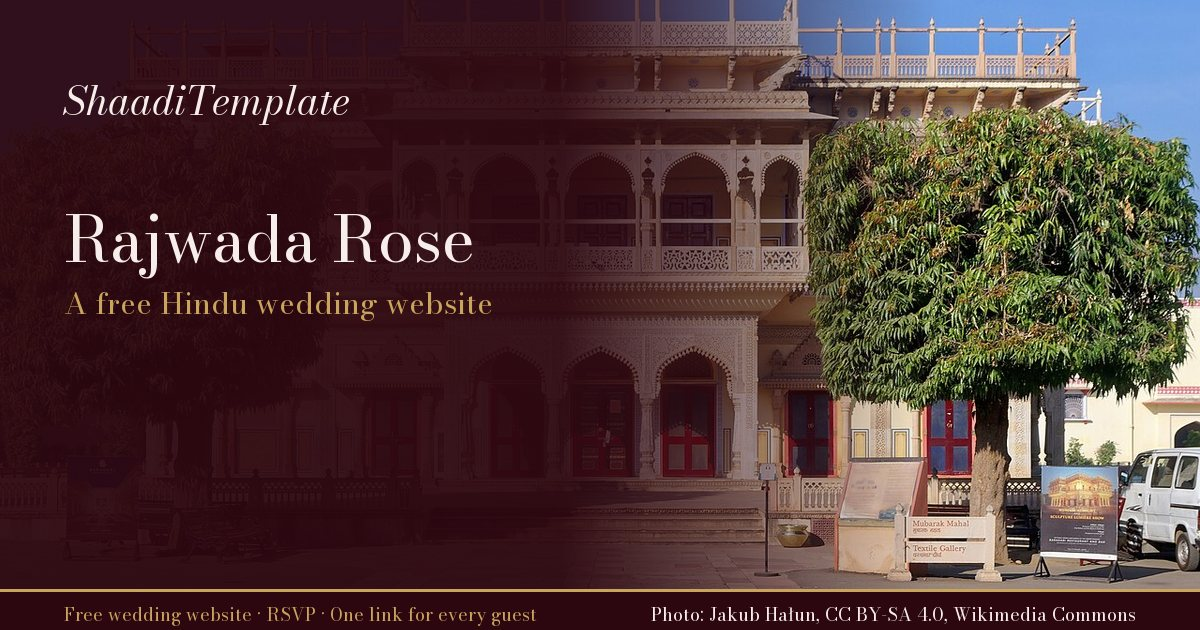
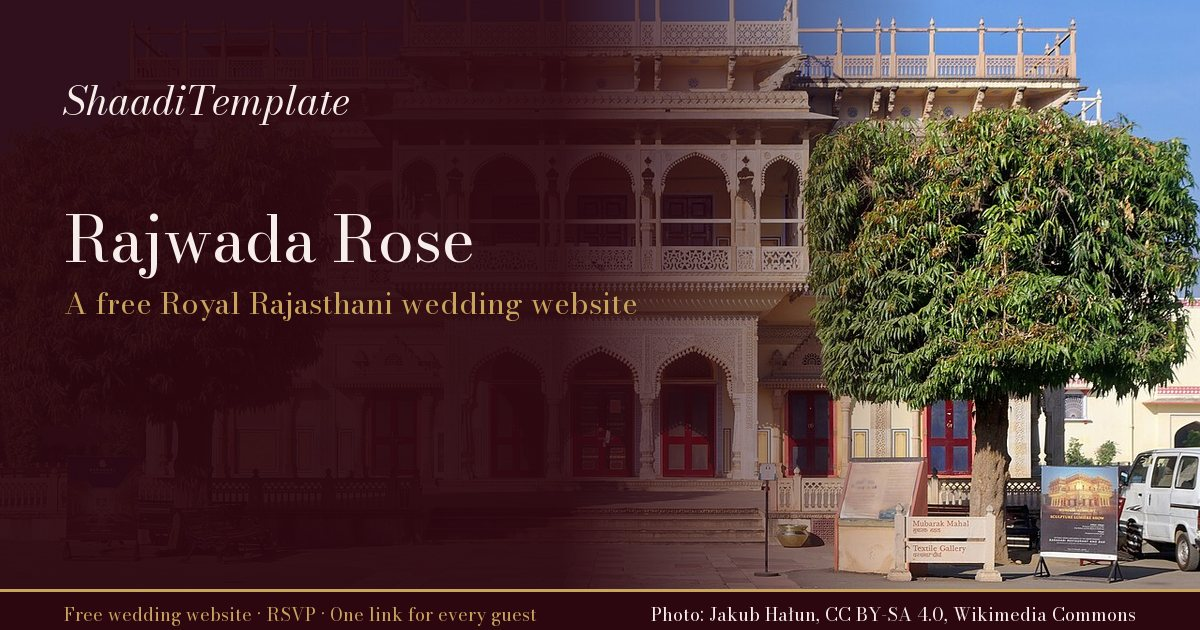
SEO: link each wedding website design, distinct website titles, sample date fixes and website analytics events
Follow-up to the Search Console check after #55.

- Home page and designs index list all 10 website designs in plain HTML, written by scripts/seo.py between the <!-- websites --> marks. The website pages have no links in their HTML until the app runs.
- Sitemap carries each website page's share image.
- Website titles no longer repeat: Royal Rajasthani, Banarasi, Palace, and Modern Minimal in place of four Hindu and one Garden.
- Hindi and Marathi guides and the reception hub carry their English-letter search phrases in the text.
- Gulabi Mamta simant sample date is 19-02-2026 (Phagun Sud 2, a Thursday) and Teddy Balloon is 03-03-2025 (Phagun Sud 4, a Monday), in all six languages. Previews re-rendered.
- Website pages send site_design_open, site_edit_start and site_publish with a design parameter. Links followed inside the app now count as page views.

Changed region(s): [[0.1233, 0.4524, 0.5242, 0.5127]]

diff --git a/src/card/tr/gulabi-mamta-simant.ts b/src/card/tr/gulabi-mamta-simant.ts
@@ -20,8 +20,8 @@ const tr: NonNullable<Template['tr']> = {
         { heading: '', body: 'With great joy we share that\nby the boundless grace and blessings of our Kuldevi Mahalakshmi Mataji,\nson of Smt. Ranjanben and Shri Madhavlal Manilal Patel' },
         { heading: '', body: '*wife of Chi. Shubham*' },
         { heading: '', body: '*Smt. Hiral*' },
-        { heading: '', body: 'will have her Simant ceremony on Vikram Samvat 2082,\nPhagun Sud 2, Thursday, 10-05-2026,\nfrom 10:00 AM, in the Vedic tradition\nas the scriptures prescribe. Please come to bless\nour daughter-in-law and grace the occasion.' },
-        { heading: '', body: '*:: Lunch ::*\nThursday, 10-05-2026,\nfrom 10:45 AM until your arrival' },
+        { heading: '', body: 'will have her Simant ceremony on Vikram Samvat 2082,\nPhagun Sud 2, Thursday, 19-02-2026,\nfrom 10:00 AM, in the Vedic tradition\nas the scriptures prescribe. Please come to bless\nour daughter-in-law and grace the occasion.' },
+        { heading: '', body: '*:: Lunch ::*\nThursday, 19-02-2026,\nfrom 10:45 AM until your arrival' },
         { heading: '', body: '*:: Venue ::*\nVangi Restaurant, Shop No. 6, 7,\nCelister Building, Rajpath Rangoli Road,\nBodakdev, Ahmedabad, Gujarat' },
       ],
     },
@@ -53,8 +53,8 @@ const tr: NonNullable<Template['tr']> = {
         { heading: '', body: 'सहर्ष सूचित करते हैं कि\nहमारी कुलदेवी महालक्ष्मी माताजी की असीम कृपा और आशीर्वाद से\nश्रीमती रंजनबेन एवं श्री माधवलाल मणिलाल पटेल के सुपुत्र' },
         { heading: '', body: '*चि. शुभम की धर्मपत्नी*' },
         { heading: '', body: '*श्रीमती हीरल*' },
-        { heading: '', body: 'की सीमंत विधि का शुभ मुहूर्त विक्रम संवत 2082\nफाल्गुन सुदी द्वितीया, गुरुवार, दि. 10-05-2026 को\nप्रातः 10:00 बजे से वैदिक परंपरा एवं शास्त्रोक्त\nरीति से निश्चित है, अतः इस शुभ अवसर पर पुत्रवधू को\nआशीर्वाद देने पधारकर शोभा बढ़ाएँ।' },
-        { heading: '', body: '*:: भोजन समारोह ::*\nगुरुवार, दि. 10-05-2026 को\nप्रातः 10:45 बजे से आपके आगमन तक' },
+        { heading: '', body: 'की सीमंत विधि का शुभ मुहूर्त विक्रम संवत 2082\nफाल्गुन सुदी द्वितीया, गुरुवार, दि. 19-02-2026 को\nप्रातः 10:00 बजे से वैदिक परंपरा एवं शास्त्रोक्त\nरीति से निश्चित है, अतः इस शुभ अवसर पर पुत्रवधू को\nआशीर्वाद देने पधारकर शोभा बढ़ाएँ।' },
+        { heading: '', body: '*:: भोजन समारोह ::*\nगुरुवार, दि. 19-02-2026 को\nप्रातः 10:45 बजे से आपके आगमन तक' },
         { heading: '', body: '*:: शुभ स्थल ::*\nवांगी रेस्टोरेंट, शॉप नं. 6, 7,\nसेलिस्टर बिल्डिंग, राजपथ रंगोली रोड,\nबोडकदेव, अहमदाबाद, गुजरात' },
       ],
     },
@@ -86,8 +86,8 @@ const tr: NonNullable<Template['tr']> = {
         { heading: '', body: 'कळविण्यास अत्यंत आनंद होतो की\nआमची कुलदेवी महालक्ष्मी मातेच्या असीम कृपेने व आशीर्वादाने\nअ.सौ. रंजनबेन व श्री. माधवलाल मणिलाल पटेल यांचे सुपुत्र' },
         { heading: '', body: '*चि. शुभम यांच्या धर्मपत्नी*' },
         { heading: '', body: '*अ.सौ. हीरल*' },
-        { heading: '', body: 'यांच्या सीमंत विधीचा शुभ मुहूर्त विक्रम संवत 2082\nफाल्गुन शुद्ध द्वितीया, गुरुवार, दि. 10-05-2026 रोजी\nसकाळी 10:00 वाजल्यापासून वैदिक परंपरा व शास्त्रोक्त\nपद्धतीने ठरला आहे, तरी या शुभ प्रसंगी आमच्या सुनेला\nआशीर्वाद देण्यास उपस्थित राहून शोभा वाढवावी.' },
-        { heading: '', body: '*:: भोजन समारंभ ::*\nगुरुवार, दि. 10-05-2026 रोजी\nसकाळी 10:45 वाजल्यापासून आपल्या आगमनापर्यंत' },
+        { heading: '', body: 'यांच्या सीमंत विधीचा शुभ मुहूर्त विक्रम संवत 2082\nफाल्गुन शुद्ध द्वितीया, गुरुवार, दि. 19-02-2026 रोजी\nसकाळी 10:00 वाजल्यापासून वैदिक परंपरा व शास्त्रोक्त\nपद्धतीने ठरला आहे, तरी या शुभ प्रसंगी आमच्या सुनेला\nआशीर्वाद देण्यास उपस्थित राहून शोभा वाढवावी.' },
+        { heading: '', body: '*:: भोजन समारंभ ::*\nगुरुवार, दि. 19-02-2026 रोजी\nसकाळी 10:45 वाजल्यापासून आपल्या आगमनापर्यंत' },
         { heading: '', body: '*:: शुभ स्थळ ::*\nवांगी रेस्टॉरंट, शॉप नं. 6, 7,\nसेलिस्टर बिल्डिंग, राजपथ रंगोली रोड,\nबोडकदेव, अहमदाबाद, गुजरात' },
       ],
     },
@@ -119,8 +119,8 @@ const tr: NonNullable<Template['tr']> = {
         { heading: '', body: 'ਬੜੀ ਖ਼ੁਸ਼ੀ ਨਾਲ ਸੂਚਿਤ ਕਰਦੇ ਹਾਂ ਕਿ\nਸਾਡੀ ਕੁਲਦੇਵੀ ਮਹਾਲਕਸ਼ਮੀ ਮਾਤਾ ਜੀ ਦੀ ਅਸੀਮ ਕਿਰਪਾ ਅਤੇ ਅਸ਼ੀਰਵਾਦ ਨਾਲ\nਸ਼੍ਰੀਮਤੀ ਰੰਜਨਬੇਨ ਅਤੇ ਸ਼੍ਰੀ ਮਾਧਵਲਾਲ ਮਣੀਲਾਲ ਪਟੇਲ ਦੇ ਸਪੁੱਤਰ' },
         { heading: '', body: '*ਚਿ. ਸ਼ੁਭਮ ਦੀ ਧਰਮਪਤਨੀ*' },
         { heading: '', body: '*ਸ਼੍ਰੀਮਤੀ ਹੀਰਲ*' },
-        { heading: '', body: 'ਦੀ ਗੋਦ ਭਰਾਈ ਦਾ ਸ਼ੁਭ ਮਹੂਰਤ ਵਿਕਰਮ ਸੰਮਤ 2082\nਫੱਗਣ ਸੁਦੀ ਦੂਜ, ਵੀਰਵਾਰ, 10-05-2026 ਨੂੰ\nਸਵੇਰੇ 10:00 ਵਜੇ ਤੋਂ ਵੈਦਿਕ ਪਰੰਪਰਾ ਅਤੇ ਸ਼ਾਸਤਰਾਂ ਦੀ\nਰੀਤ ਨਾਲ ਤੈਅ ਹੈ, ਸੋ ਇਸ ਸ਼ੁਭ ਮੌਕੇ ਸਾਡੀ ਨੂੰਹ ਨੂੰ\nਅਸ਼ੀਰਵਾਦ ਦੇਣ ਪਧਾਰ ਕੇ ਸ਼ੋਭਾ ਵਧਾਉਣਾ ਜੀ।' },
-        { heading: '', body: '*:: ਭੋਜਨ ::*\nਵੀਰਵਾਰ, 10-05-2026 ਨੂੰ\nਸਵੇਰੇ 10:45 ਵਜੇ ਤੋਂ ਤੁਹਾਡੇ ਆਉਣ ਤੱਕ' },
+        { heading: '', body: 'ਦੀ ਗੋਦ ਭਰਾਈ ਦਾ ਸ਼ੁਭ ਮਹੂਰਤ ਵਿਕਰਮ ਸੰਮਤ 2082\nਫੱਗਣ ਸੁਦੀ ਦੂਜ, ਵੀਰਵਾਰ, 19-02-2026 ਨੂੰ\nਸਵੇਰੇ 10:00 ਵਜੇ ਤੋਂ ਵੈਦਿਕ ਪਰੰਪਰਾ ਅਤੇ ਸ਼ਾਸਤਰਾਂ ਦੀ\nਰੀਤ ਨਾਲ ਤੈਅ ਹੈ, ਸੋ ਇਸ ਸ਼ੁਭ ਮੌਕੇ ਸਾਡੀ ਨੂੰਹ ਨੂੰ\nਅਸ਼ੀਰਵਾਦ ਦੇਣ ਪਧਾਰ ਕੇ ਸ਼ੋਭਾ ਵਧਾਉਣਾ ਜੀ।' },
+        { heading: '', body: '*:: ਭੋਜਨ ::*\nਵੀਰਵਾਰ, 19-02-2026 ਨੂੰ\nਸਵੇਰੇ 10:45 ਵਜੇ ਤੋਂ ਤੁਹਾਡੇ ਆਉਣ ਤੱਕ' },
         { heading: '', body: '*:: ਸ਼ੁਭ ਸਥਾਨ ::*\nਵਾਂਗੀ ਰੈਸਟੋਰੈਂਟ, ਸ਼ਾਪ ਨੰ. 6, 7,\nਸੇਲਿਸਟਰ ਬਿਲਡਿੰਗ, ਰਾਜਪਥ ਰੰਗੋਲੀ ਰੋਡ,\nਬੋਡਕਦੇਵ, ਅਹਿਮਦਾਬਾਦ, ਗੁਜਰਾਤ' },
       ],
     },
@@ -152,8 +152,8 @@ const tr: NonNullable<Template['tr']> = {
         { heading: '', body: 'மிக்க மகிழ்ச்சியுடன் தெரிவிப்பது என்னவென்றால்\nஎங்கள் குலதெய்வம் மகாலட்சுமி அன்னையின் அளவற்ற அருளாலும் ஆசியாலும்\nதிருமதி ரஞ்சன்பென், திரு மாதவ்லால் மணிலால் படேல் அவர்களின் மகன்' },
         { heading: '', body: '*சி. ஷுபம் அவர்களின் துணைவி*' },
         { heading: '', body: '*திருமதி ஹீரல்*' },
-        { heading: '', body: 'அவர்களின் வளைகாப்பு சுப முகூர்த்தம் விக்ரம் சம்வத் 2082\nபங்குனி சுக்ல துவிதியை, வியாழன், 10-05-2026 அன்று\nகாலை 10:00 மணி முதல் வேத மரபுப்படி\nசாஸ்திர முறையில் நடைபெறும். எங்கள் மருமகளை\nஆசீர்வதிக்க வருகை தந்து விழாவைச் சிறப்பிக்கவும்.' },
-        { heading: '', body: '*:: விருந்து ::*\nவியாழன், 10-05-2026 அன்று\nகாலை 10:45 மணி முதல் தங்கள் வருகை வரை' },
+        { heading: '', body: 'அவர்களின் வளைகாப்பு சுப முகூர்த்தம் விக்ரம் சம்வத் 2082\nபங்குனி சுக்ல துவிதியை, வியாழன், 19-02-2026 அன்று\nகாலை 10:00 மணி முதல் வேத மரபுப்படி\nசாஸ்திர முறையில் நடைபெறும். எங்கள் மருமகளை\nஆசீர்வதிக்க வருகை தந்து விழாவைச் சிறப்பிக்கவும்.' },
+        { heading: '', body: '*:: விருந்து ::*\nவியாழன், 19-02-2026 அன்று\nகாலை 10:45 மணி முதல் தங்கள் வருகை வரை' },
         { heading: '', body: '*:: இடம் ::*\nவாங்கி ரெஸ்டாரன்ட், கடை எண் 6, 7,\nசெலிஸ்டர் பில்டிங், ராஜ்பத் ரங்கோலி ரோடு,\nபோடக்தேவ், அகமதாபாத், குஜராத்' },
       ],
     },

diff --git a/src/card/tr/teddy-balloon-simant.ts b/src/card/tr/teddy-balloon-simant.ts
@@ -20,7 +20,7 @@ const tr: NonNullable<Template['tr']> = {
         { heading: '', body: 'With joy we share that by the boundless\ngrace of our Kuldevi Shri Brahmani Mataji,\nof Depla (now Surat), son of Smt. Shobhanaben and\nShri Deepakbhai Manojbhai Patel' },
         { heading: '', body: '*wife of Shri Dhruvit*' },
         { heading: '', body: '**Smt. Nidhi**' },
-        { heading: '', body: 'will have her Simant ceremony on Phagan Sud 4,\nSamvat 2081, Monday, 03-05-2025,\nat 5:30 PM. Please come on this happy occasion\nto bless our daughter-in-law.' },
+        { heading: '', body: 'will have her Simant ceremony on Phagan Sud 4,\nSamvat 2081, Monday, 03-03-2025,\nat 5:30 PM. Please come on this happy occasion\nto bless our daughter-in-law.' },
         { heading: '', body: '[[2-rule]]\n*:: Dinner ::*\nat 5:00 PM\nPlease come, ........... persons.' },
         { heading: '', body: '[[2-rule]]\n*:: Venue ::*\nGokul Farm,\nopposite P.P. Savani School,\nAbrama Road, Mota Varachha, Surat.' },
       ],
@@ -44,7 +44,7 @@ const tr: NonNullable<Template['tr']> = {
         { heading: '', body: 'सहर्ष सूचित करते हैं कि हमारी कुलदेवी\nश्री ब्रह्माणी माताजी की असीम कृपा से\nदेपला निवासी (हाल सूरत) श्रीमती शोभनाबेन एवं\nश्री दीपकभाई मनोजभाई पटेल के सुपुत्र' },
         { heading: '', body: '*श्री धृवित की धर्मपत्नी*' },
         { heading: '', body: '**श्रीमती निधि**' },
-        { heading: '', body: 'के सीमंत संस्कार का शुभ मुहूर्त संवत 2081\nफाल्गुन शुक्ल 4, सोमवार, दिनांक 03-05-2025 को\nसायं 5:30 बजे रखा है, अतः इस शुभ अवसर पर\nहमारी पुत्रवधू को आशीर्वाद देने पधारें।' },
+        { heading: '', body: 'के सीमंत संस्कार का शुभ मुहूर्त संवत 2081\nफाल्गुन शुक्ल 4, सोमवार, दिनांक 03-03-2025 को\nसायं 5:30 बजे रखा है, अतः इस शुभ अवसर पर\nहमारी पुत्रवधू को आशीर्वाद देने पधारें।' },
         { heading: '', body: '[[2-rule]]\n*:: भोजन समारोह ::*\nसायं 5:00 बजे\nआप ........... व्यक्ति पधारें।' },
         { heading: '', body: '[[2-rule]]\n*:: शुभ स्थल ::*\nगोकुल फार्म,\nपी.पी. सवाणी स्कूल के सामने,\nअबरामा रोड, मोटा वराछा, सूरत।' },
       ],
@@ -68,7 +68,7 @@ const tr: NonNullable<Template['tr']> = {
         { heading: '', body: 'कळविण्यास आनंद होतो की आमची कुलदेवी\nश्री ब्रह्माणी माताजी यांच्या असीम कृपेने\nदेपला निवासी (सध्या सुरत) सौ. शोभनाबेन व\nश्री. दीपकभाई मनोजभाई पटेल यांचे सुपुत्र' },
         { heading: '', body: '*श्री. धृवित यांच्या धर्मपत्नी*' },
         { heading: '', body: '**सौ. निधी**' },
-        { heading: '', body: 'यांच्या सीमंत विधीचा शुभ मुहूर्त संवत 2081\nफाल्गुन शुद्ध 4, सोमवार, दि. 03-05-2025 रोजी\nसायं. 5:30 वा. ठेवला आहे, तरी या शुभ प्रसंगी\nआमच्या सुनेला आशीर्वाद देण्यास अवश्य यावे.' },
+        { heading: '', body: 'यांच्या सीमंत विधीचा शुभ मुहूर्त संवत 2081\nफाल्गुन शुद्ध 4, सोमवार, दि. 03-03-2025 रोजी\nसायं. 5:30 वा. ठेवला आहे, तरी या शुभ प्रसंगी\nआमच्या सुनेला आशीर्वाद देण्यास अवश्य यावे.' },
         { heading: '', body: '[[2-rule]]\n*:: भोजन समारंभ ::*\nसायं. 5:00 वा.\nआपण ........... व्यक्तींनी यावे.' },
         { heading: '', body: '[[2-rule]]\n*:: शुभ स्थळ ::*\nगोकुळ फार्म,\nपी.पी. सवाणी स्कूलसमोर,\nअब्रामा रोड, मोटा वराछा, सुरत.' },
       ],
@@ -92,7 +92,7 @@ const tr: NonNullable<Template['tr']> = {
         { heading: '', body: 'ਬੜੀ ਖੁਸ਼ੀ ਨਾਲ ਸੂਚਿਤ ਕਰਦੇ ਹਾਂ ਕਿ ਸਾਡੀ ਕੁਲਦੇਵੀ\nਸ਼੍ਰੀ ਬ੍ਰਹਮਾਣੀ ਮਾਤਾਜੀ ਦੀ ਅਪਾਰ ਕਿਰਪਾ ਨਾਲ\nਦੇਪਲਾ ਨਿਵਾਸੀ (ਹੁਣ ਸੂਰਤ) ਸ਼੍ਰੀਮਤੀ ਸ਼ੋਭਨਾਬੇਨ ਅਤੇ\nਸ਼੍ਰੀ ਦੀਪਕਭਾਈ ਮਨੋਜਭਾਈ ਪਟੇਲ ਦੇ ਸਪੁੱਤਰ' },
         { heading: '', body: '*ਸ਼੍ਰੀ ਧ੍ਰਿਵਿਤ ਦੀ ਧਰਮਪਤਨੀ*' },
         { heading: '', body: '**ਸ਼੍ਰੀਮਤੀ ਨਿਧੀ**' },
-        { heading: '', body: 'ਦੀ ਗੋਦ ਭਰਾਈ ਦਾ ਸ਼ੁਭ ਮਹੂਰਤ ਸੰਵਤ 2081\nਫੱਗਣ ਸੁਦੀ 4, ਸੋਮਵਾਰ, ਮਿਤੀ 03-05-2025 ਨੂੰ\nਸ਼ਾਮ 5:30 ਵਜੇ ਰੱਖਿਆ ਹੈ, ਇਸ ਸ਼ੁਭ ਮੌਕੇ ਤੇ\nਸਾਡੀ ਨੂੰਹ ਨੂੰ ਅਸੀਸ ਦੇਣ ਲਈ ਪਧਾਰਨਾ ਜੀ।' },
+        { heading: '', body: 'ਦੀ ਗੋਦ ਭਰਾਈ ਦਾ ਸ਼ੁਭ ਮਹੂਰਤ ਸੰਵਤ 2081\nਫੱਗਣ ਸੁਦੀ 4, ਸੋਮਵਾਰ, ਮਿਤੀ 03-03-2025 ਨੂੰ\nਸ਼ਾਮ 5:30 ਵਜੇ ਰੱਖਿਆ ਹੈ, ਇਸ ਸ਼ੁਭ ਮੌਕੇ ਤੇ\nਸਾਡੀ ਨੂੰਹ ਨੂੰ ਅਸੀਸ ਦੇਣ ਲਈ ਪਧਾਰਨਾ ਜੀ।' },
         { heading: '', body: '[[2-rule]]\n*:: ਪ੍ਰੀਤੀ ਭੋਜ ::*\nਸ਼ਾਮ 5:00 ਵਜੇ\nਆਪ ਜੀ ........... ਵਿਅਕਤੀ ਪਧਾਰਨਾ।' },
         { heading: '', body: '[[2-rule]]\n*:: ਸ਼ੁਭ ਸਥਾਨ ::*\nਗੋਕੁਲ ਫਾਰਮ,\nਪੀ.ਪੀ. ਸਵਾਣੀ ਸਕੂਲ ਦੇ ਸਾਹਮਣੇ,\nਅਬਰਾਮਾ ਰੋਡ, ਮੋਟਾ ਵਰਾਛਾ, ਸੂਰਤ।' },
       ],
@@ -116,7 +116,7 @@ const tr: NonNullable<Template['tr']> = {
         { heading: '', body: 'மகிழ்ச்சியுடன் தெரிவிப்பது, எங்கள்\nகுலதெய்வம் ஸ்ரீ பிரம்மாணி மாதாவின்\nஅருளால் தேப்லா (தற்போது சூரத்)\nதிருமதி ஷோபனாபென் &\nதிரு தீபக்பாய் மனோஜ்பாய் படேல்\nஅவர்களின் புதல்வன்' },
         { heading: '', body: '*திரு த்ருவித்தின் துணைவியார்*' },
         { heading: '', body: '**திருமதி நிதி**' },
-        { heading: '', body: 'சீமந்தம்: சம்வத் 2081 பால்குன வளர்பிறை 4,\n03-05-2025 திங்கள், மாலை 5:30 மணி.\nஎங்கள் மருமகளை ஆசீர்வதிக்க\nவருகை தாருங்கள்.' },
+        { heading: '', body: 'சீமந்தம்: சம்வத் 2081 பால்குன வளர்பிறை 4,\n03-03-2025 திங்கள், மாலை 5:30 மணி.\nஎங்கள் மருமகளை ஆசீர்வதிக்க\nவருகை தாருங்கள்.' },
         { heading: '', body: '[[2-rule]]\n*:: விருந்து ::*\nமாலை 5:00 மணி\n........... நபர்களுடன் வருக.' },
         { heading: '', body: '[[2-rule]]\n*:: இடம் ::*\nகோகுல் ஃபார்ம்,\nபி.பி. சவானி பள்ளி எதிரில்,\nஅப்ராமா ரோடு, மோட்டா வராச்சா,\nசூரத்.' },
       ],

diff --git a/src/card/designs-g.tsx b/src/card/designs-g.tsx
@@ -131,8 +131,8 @@ export const templates: Template[] = [
           b('સહર્ષ ખુશાલી સાથે જણાવવાનું કે\nઅમારા કુળદેવી મહાલક્ષ્મી માતાજીની અસીમ કૃપા અને આશિર્વાદ થી\nઅ.સૌ. રંજનબેન તથા શ્રી માધવલાલ મણીલાલ પટેલના સુપુત્ર', 0.85),
           b('*ચિ. શુભમ નાં ધર્મપત્ની*', 1.35),
           b('*અ.સૌ. હીરલ*', 1.55),
-          b('ના સીમંત વિધીનું શુભ મુહૂર્ત વિક્રમ સંવત ૨૦૮૨ ના\nફાગણ સુદ બીજ ને ગુરૂવાર, તા. ૧૦-૦૫-૨૦૨૬ ના\nસવારે ૧૦:૦૦ વાગ્યાથી વૈદિક પરંપરા તથા શાસ્ત્રોક્ત\nરીતે નિર્ધારેલ છે તો આ શુભ પ્રસંગે અમારા પુત્રવધુ ને\nઆશીર્વાદ આપવા પધારી શોભામાં અભિવૃદ્ધિ કરશોજી..', 0.92),
-          b('*:: ભોજન સમારંભ ::*\nગુરુવાર, તા. ૧૦-૦૫-૨૦૨૬ ને\nસવારે ૧૦:૪૫ કલાકથી આપના આગમન સુધી', 0.92),
+          b('ના સીમંત વિધીનું શુભ મુહૂર્ત વિક્રમ સંવત ૨૦૮૨ ના\nફાગણ સુદ બીજ ને ગુરૂવાર, તા. ૧૯-૦૨-૨૦૨૬ ના\nસવારે ૧૦:૦૦ વાગ્યાથી વૈદિક પરંપરા તથા શાસ્ત્રોક્ત\nરીતે નિર્ધારેલ છે તો આ શુભ પ્રસંગે અમારા પુત્રવધુ ને\nઆશીર્વાદ આપવા પધારી શોભામાં અભિવૃદ્ધિ કરશોજી..', 0.92),
+          b('*:: ભોજન સમારંભ ::*\nગુરુવાર, તા. ૧૯-૦૨-૨૦૨૬ ને\nસવારે ૧૦:૪૫ કલાકથી આપના આગમન સુધી', 0.92),
           b('*:: શુભ સ્થળ ::*\nવાંગી રેસ્ટોરન્ટ, શોપ નં. ૬,૭,\nસેલિસ્ટર બિલ્ડિંગ, રાજપથ રંગોલી રોડ,\nબોડકદેવ, અમદાવાદ, ગુજરાત', 0.92),
         ],
       },
@@ -268,7 +268,7 @@ export const templates: Template[] = [
           b('સહર્ષ જણાવવાનું કે અમારા કુળદેવી\nશ્રી બ્રહ્માણી માતાજી ની અસીમ કૃપાથી\nદેપળા નિવાસી (હાલ સુરત) અ.સૌ. શોભનાબેન તથા\nશ્રી દીપકભાઈ મનોજભાઈ પટેલ ના સુપુત્ર', 0.85),
           b('*શ્રી. ધૃવિત ના ધર્મપત્ની*', 1.05),
           b('**અ.સૌ. નિધી**', 1),
-          b('ના સીમંત વિધિનું શુભ મુહૂર્ત સંવત ૨૦૮૧ ના\nફાગણ સુદ ૪ ને સોમવાર તા. ૦૩-૦૫-૨૦૨૫ ના\nસાંજે ૫:૩૦ કલાકે રાખેલ છે તો આ શુભ પ્રસંગે\nઅમારી પુત્રવધૂ આશિર્વાદ આપવા પધારશો.', 0.85),
+          b('ના સીમંત વિધિનું શુભ મુહૂર્ત સંવત ૨૦૮૧ ના\nફાગણ સુદ ૪ ને સોમવાર તા. ૦૩-૦૩-૨૦૨૫ ના\nસાંજે ૫:૩૦ કલાકે રાખેલ છે તો આ શુભ પ્રસંગે\nઅમારી પુત્રવધૂ આશિર્વાદ આપવા પધારશો.', 0.85),
           b('[[2-rule]]\n*:: ભોજન સમારંભ ::*\nસાંજે ૫:૦૦ કલાકે\nઆપશ્રી ........... વ્યક્તિ પધારશો.', 0.85),
           b('[[2-rule]]\n*:: શુભ સ્થળ ::*\nગોકુલ ફાર્મ,\nપી.પી. સવાણી સ્કૂલની સામે,\nઅબ્રામા રોડ, મોટાવરાછા, સુરત.', 0.85),
         ],

diff --git a/index.html b/index.html
@@ -97,7 +97,21 @@
         <p class="mt-5">Or by language: <a class="text-wine underline underline-offset-4" href="templates/gujarati-invitations.html">Gujarati kankotri</a>, <a class="text-wine underline underline-offset-4" href="templates/hindi-invitations.html">Hindi shaadi cards</a>, <a class="text-wine underline underline-offset-4" href="templates/marathi-invitations.html">Marathi lagna patrika</a>, <a class="text-wine underline underline-offset-4" href="templates/punjabi-invitations.html">Punjabi and Anand Karaj cards</a> and <a class="text-wine underline underline-offset-4" href="templates/tamil-invitations.html">Tamil invitations</a>.</p>
 
         <h2 class="mt-14 font-display text-[30px] leading-tight sm:text-[38px]">A free wedding website too</h2>
-        <p class="mt-5">Alongside the cards, you can make a free wedding website: one link to send on WhatsApp with your story, every function with its time and place, the venue map, RSVPs and guest blessings. Pick from <a class="text-wine underline underline-offset-4" href="websites/">wedding website designs</a> for a Hindu, Gujarati, Sikh Anand Karaj, Tamil, Christian, Nikah or garden wedding, add your photos and publish. It stays online until 30 days after your last function.</p>
+        <p class="mt-5">Alongside the cards, you can make a free wedding website: one link to send on WhatsApp with your story, every function with its time and place, the venue map, RSVPs and guest blessings. Pick from <a class="text-wine underline underline-offset-4" href="websites/">wedding website designs</a> for a Hindu, Gujarati, Sikh Anand Karaj, Tamil, Christian, Nikah or modern minimal wedding, add your photos and publish. It stays online until 30 days after your last function.</p>
+        <ul class="mt-4 list-disc space-y-1 pl-6">
+          <!-- websites -->
+          <li><a class="text-wine underline underline-offset-4" href="websites/rajwada/">Rajwada Rose</a>: Maroon doors, gold scrolls and ivory walls, for a royal Rajasthani wedding.</li>
+          <li><a class="text-wine underline underline-offset-4" href="websites/mandir/">Mandir Utsav</a>: Temple sandstone, peacocks and lotus ponds, with polaroids and a countdown.</li>
+          <li><a class="text-wine underline underline-offset-4" href="websites/gulabi-bagh/">Gulabi Bagh</a>: Blush pink and sage, with a date the guest reveals and a timeline of every function.</li>
+          <li><a class="text-wine underline underline-offset-4" href="websites/neel-kamal/">Neel Kamal</a>: Indigo night and lamp gold by the Ganga, with a tap-to-reveal date and a timeline.</li>
+          <li><a class="text-wine underline underline-offset-4" href="websites/pichola/">Pichola Nights</a>: Kohl and zari gold over the lake at night, for a palace wedding.</li>
+          <li><a class="text-wine underline underline-offset-4" href="websites/phulkari/">Phulkari Mela</a>: Rani pink and saffron on cream, as bright as a phulkari dupatta.</li>
+          <li><a class="text-wine underline underline-offset-4" href="websites/kovil/">Kovil Gold</a>: Temple maroon and turmeric gold, with jasmine and a gopuram arch.</li>
+          <li><a class="text-wine underline underline-offset-4" href="websites/sage-lace/">Sage and Lace</a>: Ivory, sage green and a script hand, for a church wedding by the sea.</li>
+          <li><a class="text-wine underline underline-offset-4" href="websites/noor/">Noor Mahal</a>: Deep emerald and silver under Lucknow’s arches, for a nikah.</li>
+          <li><a class="text-wine underline underline-offset-4" href="websites/ink-linen/">Ink and Linen</a>: Black ink on white linen. Quiet, modern, and all about the photos.</li>
+          <!-- /websites -->
+        </ul>
 
         <h2 class="mt-14 font-display text-[30px] leading-tight sm:text-[38px]">Guides</h2>
         <ul class="mt-5 list-disc space-y-2 pl-6">

diff --git a/src/site/designs.ts b/src/site/designs.ts
@@ -92,7 +92,7 @@ export const LOOKS: Look[] = [
     id: 'rajwada',
     name: 'Rajwada Rose',
     blurb: 'Maroon doors, gold scrolls and ivory walls, for a royal Rajasthani wedding.',
-    tradition: 'Hindu wedding · Jaipur',
+    tradition: 'Royal Rajasthani wedding · Jaipur',
     layout: 'veil',
     theme: { bg: '#f8f2e9', raised: '#efe5d5', accent: '#b8862f', text: '#4a1020', soft: '#8c2a3c', display: CORMORANT, script: PINYON, panel: '#6d1426', panelText: '#fbf1e2' },
     elephants: true,
@@ -209,7 +209,7 @@ export const LOOKS: Look[] = [
     id: 'neel-kamal',
     name: 'Neel Kamal',
     blurb: 'Indigo night and lamp gold by the Ganga, with a tap-to-reveal date and a timeline.',
-    tradition: 'Hindu wedding · Varanasi',
+    tradition: 'Banarasi wedding · Varanasi',
     layout: 'veil',
     theme: { bg: '#141a33', raised: '#1d2546', accent: '#e2b04a', text: '#f2ecdf', soft: '#a9b6e0', display: '"Marcellus", Georgia, serif', script: GREAT_VIBES },
     storyStyle: 'carousel',
@@ -249,7 +249,7 @@ export const LOOKS: Look[] = [
     id: 'pichola',
     name: 'Pichola Nights',
     blurb: 'Kohl and zari gold over the lake at night, for a palace wedding.',
-    tradition: 'Hindu wedding · Udaipur',
+    tradition: 'Palace wedding · Udaipur',
     layout: 'veil',
     theme: { bg: '#1e1519', raised: '#2a1f24', accent: '#c9a15b', text: '#f3ece3', soft: '#d7a79e', display: CORMORANT, script: CORMORANT },
     demo: {
@@ -398,7 +398,7 @@ export const LOOKS: Look[] = [
     id: 'ink-linen',
     name: 'Ink and Linen',
     blurb: 'Black ink on white linen. Quiet, modern, and all about the photos.',
-    tradition: 'Garden wedding · New Delhi',
+    tradition: 'Modern minimal wedding · New Delhi',
     layout: 'split',
     theme: { bg: '#fafaf7', raised: '#efefe9', accent: '#1d1d1b', text: '#1d1d1b', soft: '#6e6e66', display: '"Gloock", Georgia, serif', script: '"Gloock", Georgia, serif' },
     demo: {
@@ -493,7 +493,7 @@ export function designIntro(d: Pick<Design, 'name' | 'tradition' | 'blurb' | 'co
     body: `${d.blurb} The live sample is ${d.couple[0]} and ${d.couple[1]}'s site: their story, ${list} with times and add to calendar, the venue in ${d.city} on a map, RSVP and guest blessings. Make it yours with your own names, functions and photos, then send one link to every guest on WhatsApp. It is free, and stays online until 30 days after your last function.`,
   }
 }
-export const designTitle = (d: { name: string; tradition: string }) => `${d.name}: Free ${designKind(d).replace('wedding', 'Wedding')} Website`
+export const designTitle = (d: { name: string; tradition: string }) => `${d.name}: Free ${designKind(d).replace(/\b[a-z]/g, (c) => c.toUpperCase())} Website`
 export const designByPath = (path: string) => DESIGNS.find((d) => d.id === path.split('/')[2])
 // Go to another page of the app without loading it again (App.tsx listens for popstate).
 export const go = (path: string) => {

diff --git a/public/guides/marathi-lagna-patrika.html b/public/guides/marathi-lagna-patrika.html
@@ -35,7 +35,7 @@
 <h1>लग्न पत्रिका मजकूर: मराठी लग्नपत्रिकेचा तयार मजकूर</h1>
 <p class="muted">मार्गदर्शक · लेखक: <a href="../about.html#author" lang="en">Ashok Lalakiya</a> · प्रकाशित: १७ नोव्हेंबर २०२६</p>
 
-<p>लग्न पत्रिका मजकूर म्हणजे मराठी लग्नपत्रिकेवर छापला जाणारा संपूर्ण मजकूर: श्री गणेशाय नमः आणि कुलदेवतेचे स्मरण, निमंत्रण, वधू-वर आणि त्यांच्या आई-वडिलांची नावे, शुभ मुहूर्त, अक्षता, कार्यक्रम, निमंत्रक मंडळी आणि आहेर नको अशी विनंती. खाली प्रत्येक भागासाठी कॉपी करता येईल असा मजकूर दिला आहे.</p>
+<p>लग्न पत्रिका मजकूर म्हणजे मराठी लग्नपत्रिकेवर छापला जाणारा संपूर्ण मजकूर: श्री गणेशाय नमः आणि कुलदेवतेचे स्मरण, निमंत्रण, वधू-वर आणि त्यांच्या आई-वडिलांची नावे, शुभ मुहूर्त, अक्षता, कार्यक्रम, निमंत्रक मंडळी आणि आहेर नको अशी विनंती. खाली प्रत्येक भागासाठी कॉपी करता येईल असा मजकूर दिला आहे. इंग्रजी अक्षरांत हाच मजकूर <span lang="en">lagna patrika majkur</span> किंवा <span lang="en">Marathi lagna patrika format</span> म्हणून शोधला जातो.</p>
 
 <p>उदाहरणांमध्ये तीच नावे आणि ठिकाण वापरले आहे जे <span lang="en">ShaadiTemplate</span> च्या मराठी पत्रिकेत आधीच भरलेले असते: चि.सौ.कां. मृणाल (सौ. सुनीता व श्री. राजेश कुलकर्णी यांची कन्या) आणि चि. अथर्व (सौ. नीता व श्री. विक्रम देशपांडे यांचा सुपुत्र), सरस्वती मंगल कार्यालय, पुणे. आपल्याला फक्त नावे, तारीख आणि ठिकाण बदलायचे आहे.</p>
 

diff --git a/public/guides/hindi-shadi-card-matter.html b/public/guides/hindi-shadi-card-matter.html
@@ -35,7 +35,7 @@
 <h1>शादी कार्ड मैटर: बेटी और बेटे की शादी के कार्ड का पूरा मैटर</h1>
 <p class="muted">गाइड · लेखक: <a href="../about.html#author" lang="en">Ashok Lalakiya</a> · प्रकाशित: 17 नवंबर 2026</p>
 
-<p>शादी कार्ड मैटर वह पूरा पाठ है जो विवाह निमंत्रण पत्र पर छपता है: गणेश वंदना या श्लोक, सादर आमंत्रण की पंक्तियाँ, वर-वधू और उनके माता-पिता के नाम, विवाह की तिथि, कार्यक्रमों की सूची, स्वागतोत्सुक और दर्शनाभिलाषी परिवारजन, और बच्चों की बाल मनुहार। नीचे हर हिस्से का मैटर दिया है जिसे आप कॉपी कर सकते हैं।</p>
+<p>शादी कार्ड मैटर वह पूरा पाठ है जो विवाह निमंत्रण पत्र पर छपता है: गणेश वंदना या श्लोक, सादर आमंत्रण की पंक्तियाँ, वर-वधू और उनके माता-पिता के नाम, विवाह की तिथि, कार्यक्रमों की सूची, स्वागतोत्सुक और दर्शनाभिलाषी परिवारजन, और बच्चों की बाल मनुहार। नीचे हर हिस्से का मैटर दिया है जिसे आप कॉपी कर सकते हैं। अंग्रेज़ी अक्षरों में लोग इसे <span lang="en">shadi card matter in Hindi</span> या <span lang="en">wedding card matter in Hindi</span> लिखकर खोजते हैं; यह वही मैटर है।</p>
 
 <p>उदाहरणों में वही नाम और स्थान हैं जो <span lang="en">ShaadiTemplate</span> के हिंदी कार्ड में पहले से भरे आते हैं: चि. अनन्या (सुपुत्री श्रीमती सुनीता एवं श्री राजेश शर्मा) और चि. अर्जुन (सुपुत्र श्रीमती नीता एवं श्री विक्रम मेहता), द लीला पैलेस, उदयपुर। आपको केवल अपने नाम, तिथि और स्थान बदलने हैं।</p>
 

diff --git a/public/templates/index.html b/public/templates/index.html
@@ -51,7 +51,21 @@
 <h2><a href="baby-shower-invitations.html">Baby shower (simant) invitations</a></h2>
 <p>8 designs. Simant is the Gujarati baby shower, a blessing for the mother-to-be in the seventh month, hosted by the husband's family.</p>
 <h2><a href="../websites/">Wedding website designs</a></h2>
-<p>10 designs. Besides the cards, each couple can publish a free wedding website: one link for guests with the story, every function, the venue map, RSVPs and blessings, in Hindu, Gujarati, Sikh, Tamil, Christian, Muslim and garden styles.</p>
+<p>10 designs. Besides the cards, each couple can publish a free wedding website: one link for guests with the story, every function, the venue map, RSVPs and blessings, in Hindu, Gujarati, Sikh, Tamil, Christian, Muslim and modern minimal styles.</p>
+<ul>
+<!-- websites -->
+<li><a href="../websites/rajwada/">Rajwada Rose</a>: Maroon doors, gold scrolls and ivory walls, for a royal Rajasthani wedding.</li>
+<li><a href="../websites/mandir/">Mandir Utsav</a>: Temple sandstone, peacocks and lotus ponds, with polaroids and a countdown.</li>
+<li><a href="../websites/gulabi-bagh/">Gulabi Bagh</a>: Blush pink and sage, with a date the guest reveals and a timeline of every function.</li>
+<li><a href="../websites/neel-kamal/">Neel Kamal</a>: Indigo night and lamp gold by the Ganga, with a tap-to-reveal date and a timeline.</li>
+<li><a href="../websites/pichola/">Pichola Nights</a>: Kohl and zari gold over the lake at night, for a palace wedding.</li>
+<li><a href="../websites/phulkari/">Phulkari Mela</a>: Rani pink and saffron on cream, as bright as a phulkari dupatta.</li>
+<li><a href="../websites/kovil/">Kovil Gold</a>: Temple maroon and turmeric gold, with jasmine and a gopuram arch.</li>
+<li><a href="../websites/sage-lace/">Sage and Lace</a>: Ivory, sage green and a script hand, for a church wedding by the sea.</li>
+<li><a href="../websites/noor/">Noor Mahal</a>: Deep emerald and silver under Lucknow’s arches, for a nikah.</li>
+<li><a href="../websites/ink-linen/">Ink and Linen</a>: Black ink on white linen. Quiet, modern, and all about the photos.</li>
+<!-- /websites -->
+</ul>
 <h2>Designs by language</h2>
 <p>Every design can be switched to any of the six languages in the editor. These pages list the designs whose own sample wording is written in each language.</p>
 <p><a href="gujarati-invitations.html">Gujarati</a>: 26 designs, including six painted kankotris (two with your own photo), a Jain lagna patrika, eight chandla vidhi (engagement) cards and eight simant (baby shower) cards.</p>

diff --git a/public/templates/reception-invitations.html b/public/templates/reception-invitations.html
@@ -35,7 +35,7 @@
 <p class="muted"><a href="save-the-date-invitations.html">Save the Date</a> · <a href="engagement-ring-ceremony-invitations.html">Ring Ceremony</a> · <a href="haldi-invitations.html">Haldi</a> · <a href="mehendi-invitations.html">Mehendi</a> · <a href="sangeet-invitations.html">Sangeet</a> · <a href="wedding-invitations.html">Wedding (Vivah)</a> · <strong>Reception</strong> · <a href="baby-shower-invitations.html">Baby Shower (Simant)</a></p>
 <h1>Reception invitations</h1>
 <p>The reception is often hosted by the groom's family, or by both families together, and it is the event colleagues and wider acquaintances are invited to. Keep it short and formal. The invocation and long family lists usually stay on the wedding card. Give the date, time, venue and the hosts' names, and mention dinner.</p>
-<p>Because reception guests include people outside the family, an English card is common even when the wedding card is in Hindi, Gujarati or Tamil.</p>
+<p>Because reception guests include people outside the family, an English card is common even when the wedding card is in Hindi, Gujarati or Tamil. For a reception card in Hindi, the reception card matter is headed <span lang="hi">प्रीतिभोज</span> (pritibhoj) or <span lang="hi">स्वागत समारोह</span> (swagat samaroh), as on the Aaina Mahal design below.</p>
 <p>Every design below opens in the editor with sample wording for this ceremony. You can switch any card to English, Hindi, Marathi, Gujarati, Punjabi or Tamil once it is open.</p>
 <section class="design" id="aaina-mahal">
 <img src="previews/aaina-mahal.webp" width="270" height="480" fetchpriority="high" alt="Aaina Mahal Mirror Work: Reception invitation card in Hindi with Lord Ganesha" />

diff --git a/src/SiteApp.tsx b/src/SiteApp.tsx
@@ -1,4 +1,5 @@
 import { Suspense, useEffect, useState } from 'react'
+import { track } from './analytics'
 import { land, sitePath, siteView } from './siteRoutes'
 
 // The app for wedding website pages only (main.tsx picks it by address). Links between website pages change the
@@ -18,7 +19,7 @@ export default function SiteApp() {
       if (!sitePath(a.pathname) || (a.pathname === location.pathname && a.hash)) return
       e.preventDefault()
       history.pushState(null, '', a.href)
-      sync()
+      dispatchEvent(new PopStateEvent('popstate')) // runs sync, and lets analytics count the page (analytics.ts)
     }
     document.documentElement.dataset.view = 'site'
     addEventListener('popstate', sync)
@@ -30,6 +31,9 @@ export default function SiteApp() {
   }, [])
   useEffect(() => {
     scrollTo(0, 0)
+    // Which design a visitor opened and which they began to make their own; SiteEditor.tsx sends site_publish.
+    const [, design, edit] = path.match(/^\/websites\/(?!preview)([\w-]+)(\/edit)?$/) ?? []
+    if (design) track(edit ? 'site_edit_start' : 'site_design_open', { design })
   }, [path])
   const Site = siteView(path)
   return (

diff --git a/src/site/SiteEditor.tsx b/src/site/SiteEditor.tsx
@@ -1,5 +1,6 @@
 import { ArrowLeft, ArrowUp, Copy, Download, ExternalLink, Loader2, Mail, Plus, Trash2 } from 'lucide-react'
 import { useEffect, useRef, useState, type FormEvent, type ReactNode } from 'react'
+import { track } from '../analytics'
 import { Wordmark } from '../Hero'
 import { api, editKey, editLink, lean, liveLink } from './api'
 import { go, LOOKS, lookById, type Content, type Look } from './designs'
@@ -244,6 +245,7 @@ function Workbench({ draft, setDraft }: { draft: Draft; setDraft: (f: (d: Draft)
         setDraft((d) => ({ ...d, content: stored(d.content, r.content), key: r.key }))
         setDirty(false)
         setJustPublished(true)
+        track('site_publish', { design: draft.look })
       }
     } catch (err) {
       setError((err as Error).message)

diff --git a/src/App.tsx b/src/App.tsx
@@ -45,7 +45,7 @@ export default function App() {
       if ((a.pathname !== '/' && !sitePath(a.pathname)) || (a.pathname === location.pathname && a.hash)) return
       e.preventDefault()
       history.pushState(null, '', a.href)
-      sync()
+      dispatchEvent(new PopStateEvent('popstate')) // runs sync, and lets analytics count the page (analytics.ts)
     }
     addEventListener('hashchange', sync)
     addEventListener('popstate', sync)
